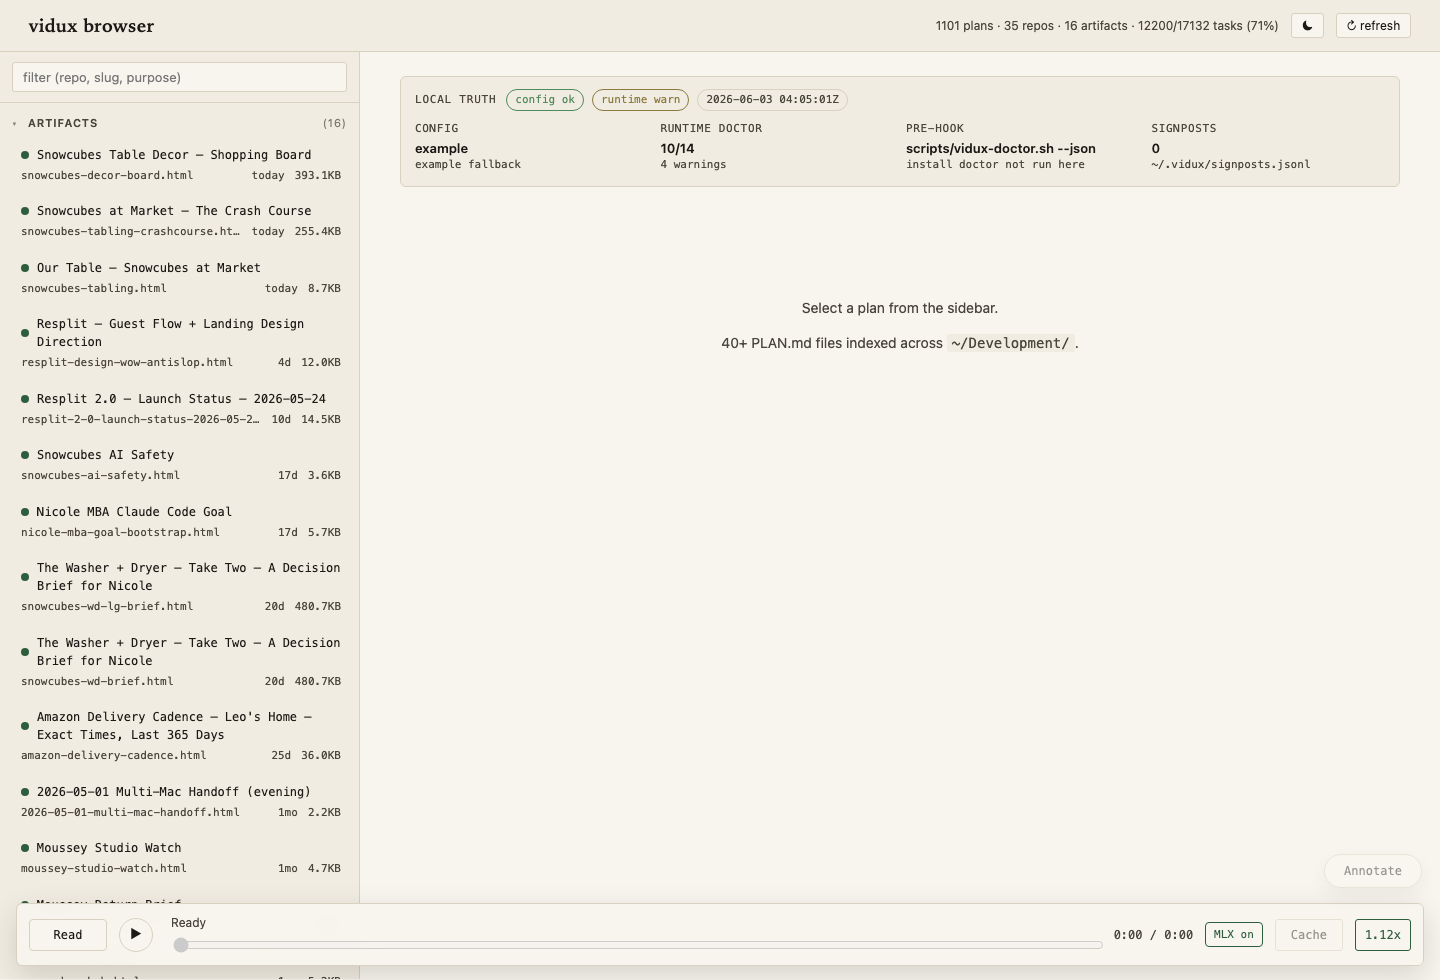
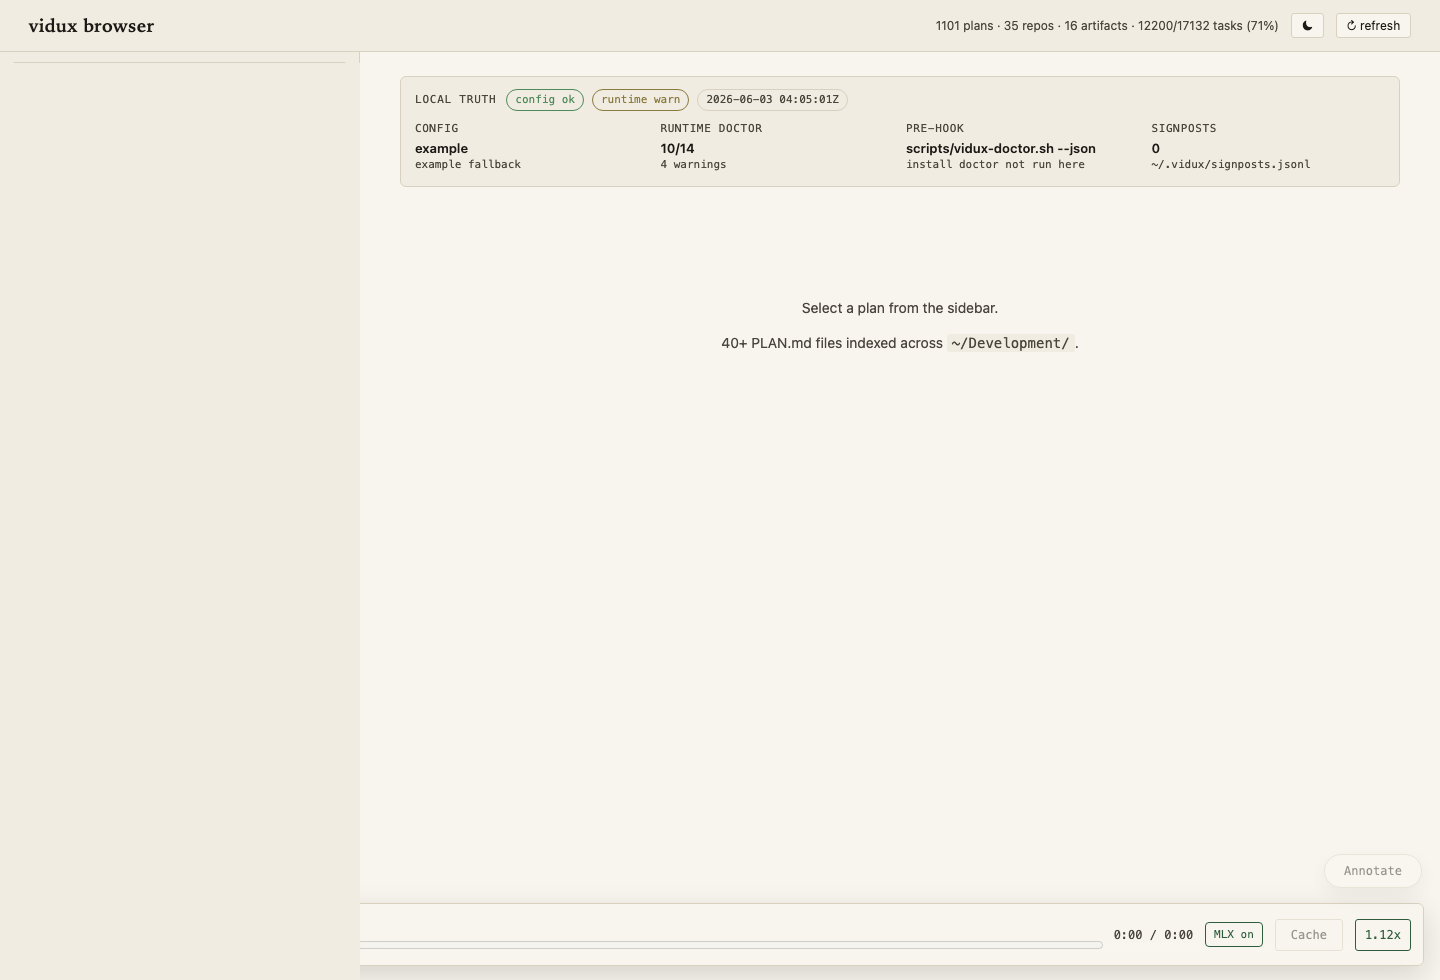
fix(privacy): blank sidebar PII in 3 tracked evidence screenshots
evidence/2026-06-03-vidux-browser-truth-{desktop,memory-band,signpost-chain}.png
all showed a sidebar with real artifact titles naming family members
and home-logistics content. Blanked the sidebar region only (pixel-
located via background-color-transition scan), preserving the actual
evidentiary content (status bar / LOCAL TRUTH panel) untouched.

kernel-cut-pivot.md's screenshot-receipts list updated to note the
already-committed removal of the 4th affected PNG
(2026-07-07-browser-verdict-dashboard-after-css.png, no clean crop
possible) and point to the sibling list-element-after-css.png as the
remaining proof of the same CSS fix.

Round-9 panel finding (spouse-name-redaction-verify lens).

diff --git a/evidence/2026-07-07-kernel-cut-pivot.md b/evidence/2026-07-07-kernel-cut-pivot.md
@@ -84,8 +84,12 @@ Freeze current kernel/planner-executor handoff as the default Vidux route. Keep 
   - Sidebar text includes `1 verdicts`.
 - Visual smoke found and fixed a dashboard usability bug: large decision/inbox lists made dashboard panels unbounded, pushing later panels into awkward page flow. `.dashboard-list` is now capped at `min(560px, 70vh)` and `.dashboard-items` scrolls internally.
 - Screenshot receipts:
-  - `evidence/2026-07-07-browser-verdict-dashboard-after-css.png`
   - `evidence/2026-07-07-browser-verdict-list-element-after-css.png`
+  - (`...-dashboard-after-css.png` removed 2026-07-10: the full-dashboard
+    capture rendered real cross-repo plan content spanning nearly the whole
+    frame -- no crop preserved the CSS-containment claim without also
+    keeping that content. The list-element screenshot above already proves
+    the same fix in isolation.)
 - Proof 2026-07-07:
   - `curl -s http://127.0.0.1:7192/api/plans | python3 -m json.tool | rg -n '"verdicts"|"Verdicts"|"proof_rel"|...` found the Verdicts category and PE proof path.
   - Chrome/Playwright DOM check PASS using `/Applications/Google Chrome.app/Contents/MacOS/Google Chrome`.
